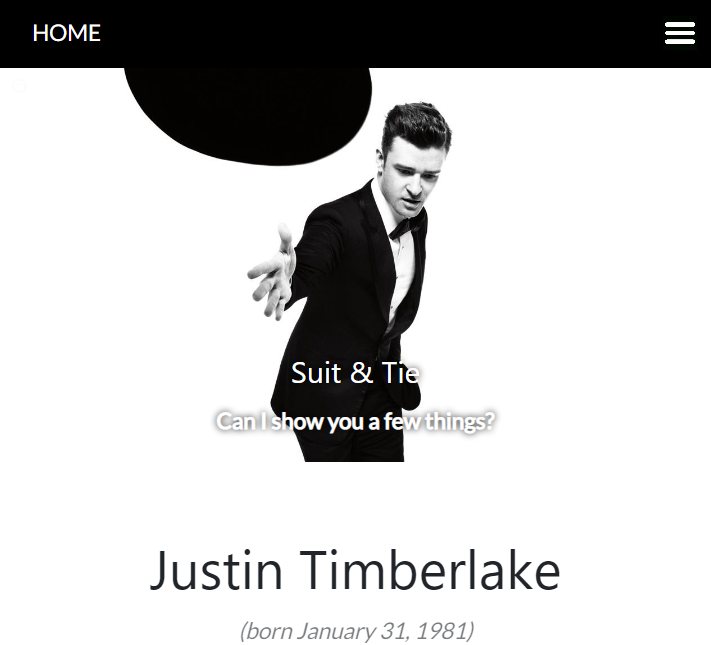
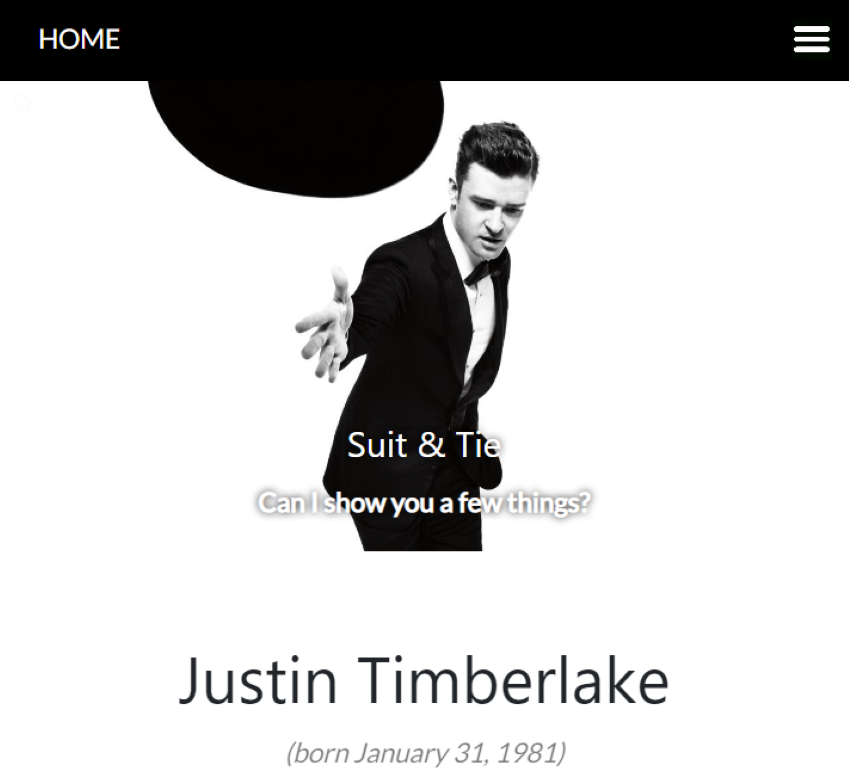
Added the fonts

diff --git a/index.html b/index.html
@@ -2,8 +2,8 @@
 <html lang="en">
   <head>
     <meta charset="UTF-8" />
-    <meta name="viewport" content="width=device-width, initial-scale=1.0" />
     <meta http-equiv="X-UA-Compatible" content="ie=edge" />
+    <meta name="viewport" content="width=device-width, initial-scale=1.0" />
     <meta
       name="description"
       content="Find a front-end and web developer, based in Italy. Ckeck out the Weather app, Restaurant page and Pop Star page projects coded by Elmina Jamalova."
@@ -25,14 +25,21 @@
       integrity="sha384-Y4oOpwW3duJdCWv5ly8SCFYWqFDsfob/3GkgExXKV4idmbt98QcxXYs9UoXAB7BZ"
       crossorigin="anonymous"
     ></script>
+    <script
+      src="https://kit.fontawesome.com/3fda5d8325.js"
+      crossorigin="anonymous"
+    ></script>
+    <link rel="preconnect" href="https://fonts.gstatic.com" />
+    <link
+      href="https://fonts.googleapis.com/css2?family=Playfair+Display:wght@700&family=Poppins:wght@300;700&display=swap"
+      rel="stylesheet"
+    />
     <link rel="stylesheet" href="styles.css" type="text/css" />
   </head>
   <body>
     <nav class="navbar navbar-expand-lg bg-body-tertiary fixed-top">
       <div class="container">
-        <a class="navbar-brand" href="index.html" title="Homepage"
-          >Elmina Jamalova</a
-        >
+        <a class="navbar-brand" href="index.html" title="Homepage">EJ</a>
         <button
           class="navbar-toggler"
           type="button"
@@ -62,7 +69,7 @@
         </div>
       </div>
     </nav>
-    <h2 class="text-center">🙋🏻♀ Hi! I am</h2>
+    <h2 class="text-center">👋🏼 Hi! I am</h2>
     <h1>Elmina Jamalova</h1>
     <h3 class="mt-3">
       <img src="images/italy.png" alt="Italy flag" width="50" /> Front-end
@@ -81,83 +88,89 @@
     </div>
     <div class="container mt-5 mb-5">
       <div class="row">
-        <div class="col-sm-6">
+        <div class="col d-none d-sm-block">
           <img
             src="images/weather-app.png"
             alt="Weather app"
-            class="homepage img-fluid rounded-3"
+            class="img-fluid rounded"
           />
         </div>
-        <div class="col-sm-6">
-          <h2 class="mb-3">Weather app</h2>
-          <p>
-            Lorem ipsum dolor sit amet consectetur adipisicing elit. Perferendis
-            quia, dignissimos nam ratione veniam quibusdam porro omnis quam vel
-            eos eveniet alias temporibus deserunt veritatis minima fugiat
-            explicabo eum dolore.
-          </p>
-          <div class="mt-5">
-            <a
-              href="https://elmina-weather-app.netlify.app/"
-              target="_blank"
-              title="Weather app"
-              class="primary-link"
-              >Launch Weather App</a
-            >
+        <div class="col">
+          <div class="project-desciption">
+            <h2 class="mb-3">Weather app</h2>
+            <p class="text-muted">
+              Lorem ipsum dolor sit amet consectetur adipisicing elit.
+              Perferendis quia, dignissimos nam ratione veniam quibusdam porro
+              omnis quam vel eos eveniet alias temporibus deserunt veritatis
+              minima fugiat explicabo eum dolore.
+            </p>
+            <div class="mt-5">
+              <a
+                href="https://elmina-weather-app.netlify.app/"
+                target="_blank"
+                title="Weather app"
+                class="primary-link"
+                >Launch Weather App</a
+              >
+            </div>
           </div>
         </div>
       </div>
       <div class="row mt-5">
-        <div class="col-sm-6">
-          <h2 class="mb-3">Restaurant page</h2>
-          <p>
-            Lorem ipsum dolor sit amet consectetur adipisicing elit. Perferendis
-            quia, dignissimos nam ratione veniam quibusdam porro omnis quam vel
-            eos eveniet alias temporibus deserunt veritatis minima fugiat
-            explicabo eum dolore.
-          </p>
-          <div class="mb-5 mt-5">
-            <a
-              href="https://elmina-restaurant-page.netlify.app/"
-              target="_blank"
-              title="Restaurant page"
-              class="primary-link"
-              >Launch Restaurant page</a
-            >
+        <div class="col">
+          <div class="project-desciption">
+            <h2 class="mb-3">Restaurant page</h2>
+            <p class="text-muted">
+              Lorem ipsum dolor sit amet consectetur adipisicing elit.
+              Perferendis quia, dignissimos nam ratione veniam quibusdam porro
+              omnis quam vel eos eveniet alias temporibus deserunt veritatis
+              minima fugiat explicabo eum dolore.
+            </p>
+            <div class="mb-5 mt-5">
+              <a
+                href="https://elmina-restaurant-page.netlify.app/"
+                target="_blank"
+                title="Restaurant page"
+                class="primary-link"
+                >Launch Restaurant page</a
+              >
+            </div>
           </div>
         </div>
-        <div class="col-sm-6">
+        <div class="col d-none d-sm-block mb-5">
           <img
             src="images/restaurant-page.png"
             alt="Restaurant page"
-            class="homepage img-fluid rounded"
+            class="img-fluid shadow rounded"
           />
         </div>
       </div>
-      <div class="row">
-        <div class="col-sm-6">
+      <div class="row mt-5">
+        <div class="col d-none d-sm-block">
           <img
             src="images/jt.png"
             alt="Pop star page"
-            class="homepage img-fluid rounded"
+            class="img-fluid shadow rounded"
           />
         </div>
-        <div class="col-sm-6">
-          <h2 class="mb-3">Pop Star page</h2>
-          <p>
-            Lorem ipsum dolor sit amet consectetur adipisicing elit. Perferendis
-            quia, dignissimos nam ratione veniam quibusdam porro omnis quam vel
-            eos eveniet alias temporibus deserunt veritatis minima fugiat
-            explicabo eum dolore.
-          </p>
-          <div class="mt-5">
-            <a
-              href="https://elmina-pop-star-page.netlify.app/"
-              target="_blank"
-              title="Pop star page"
-              class="primary-link"
-              >Launch Pop Star page</a
-            >
+        <div class="col">
+          <div class="project-desciption">
+            <h2 class="mb-3">Pop Star page</h2>
+            <p class="text-muted">
+              Lorem ipsum dolor sit amet consectetur adipisicing elit.
+              Perferendis quia, dignissimos nam ratione veniam quibusdam porro
+              omnis quam vel eos eveniet alias temporibus deserunt veritatis
+              minima fugiat explicabo eum dolore.
+            </p>
+            <div class="mt-5">
+              <a
+                href="https://elmina-pop-star-page.netlify.app/"
+                target="_blank"
+                title="Pop star page"
+                class="primary-link"
+                >Launch Pop Star page</a
+              >
+            </div>
           </div>
         </div>
       </div>

diff --git a/about.html b/about.html
@@ -25,14 +25,21 @@
       integrity="sha384-Y4oOpwW3duJdCWv5ly8SCFYWqFDsfob/3GkgExXKV4idmbt98QcxXYs9UoXAB7BZ"
       crossorigin="anonymous"
     ></script>
+    <script
+      src="https://kit.fontawesome.com/3fda5d8325.js"
+      crossorigin="anonymous"
+    ></script>
+    <link rel="preconnect" href="https://fonts.gstatic.com" />
+    <link
+      href="https://fonts.googleapis.com/css2?family=Playfair+Display:wght@700&family=Poppins:wght@300;700&display=swap"
+      rel="stylesheet"
+    />
     <link rel="stylesheet" href="styles.css" type="text/css" />
   </head>
   <body>
     <nav class="navbar navbar-expand-lg bg-body-tertiary fixed-top">
       <div class="container">
-        <a class="navbar-brand" href="index.html" title="Homepage"
-          >Elmina Jamalova</a
-        >
+        <a class="navbar-brand" href="index.html" title="Homepage">EJ</a>
         <button
           class="navbar-toggler"
           type="button"
@@ -75,21 +82,21 @@
     </div>
     <div class="container">
       <div class="row">
-        <div class="col-sm-4">
+        <div class="col-md-4">
           <img
             src="images/weather-app.png"
             alt="Weather app"
-            class="img-fluid p-2 mb-4 shadow rounded"
+            class="img-fluid p-3 mb-4 shadow rounded"
           />
         </div>
-        <div class="col-sm-4">
+        <div class="col-md-4">
           <img
             src="images/restaurant-page.png"
             alt="Restaurant page"
             class="img-fluid p-2 mb-4 shadow rounded"
           />
         </div>
-        <div class="col-sm-4">
+        <div class="col-md-4">
           <img
             src="images/jt.png"
             alt="Pop star page"

diff --git a/styles.css b/styles.css
@@ -3,22 +3,34 @@
   --secondary-color: #f99c3e;
   --background-color-body: #faf2e5;
   --background-color: #f9eadb;
+  --heading-font-family: "Playfair Display", serif;
+  --default-font-family: "Poppins", sans-serif;
   --box-shadow: rgb(0, 0, 0) 0px 0px 5px;
 }
 
 body {
-  margin: 100px 0 60px 0;
+  margin: 100px 5px 60px 5px;
   background-color: var(--background-color-body);
+  font-family: var(--default-font-family);
 }
-
 .bg-body-tertiary {
   background-color: var(--background-color) !important;
 }
-h2 {
-  font-size: 45px;
+h1,
+h2,
+h3,
+h4,
+h5,
+h6 {
+  color: black;
+  font-family: var(--heading-font-family);
+  font-weight: bold;
 }
 h1 {
   font-size: 80px;
+}
+h2 {
+  font-size: 45px;
 }
 h3 {
   font-size: 25px;
@@ -33,6 +45,7 @@ p {
   font-size: 18px;
   line-height: 1.5;
 }
+
 .links {
   display: flex;
   justify-content: center;
@@ -79,8 +92,11 @@ p {
 .email-link:hover {
   text-decoration: underline;
 }
+.project-desciption {
+  padding: 30px 60px;
+}
 
-@media (max-width: 576px) {
+@media (max-width: 992px) {
   h1 {
     font-size: 40px;
   }
@@ -96,7 +112,8 @@ p {
     display: block;
     margin: 0 30px;
   }
-  .homepage {
-    display: none;
+  .project-desciption {
+    padding: 0;
+    text-align: center;
   }
 }
